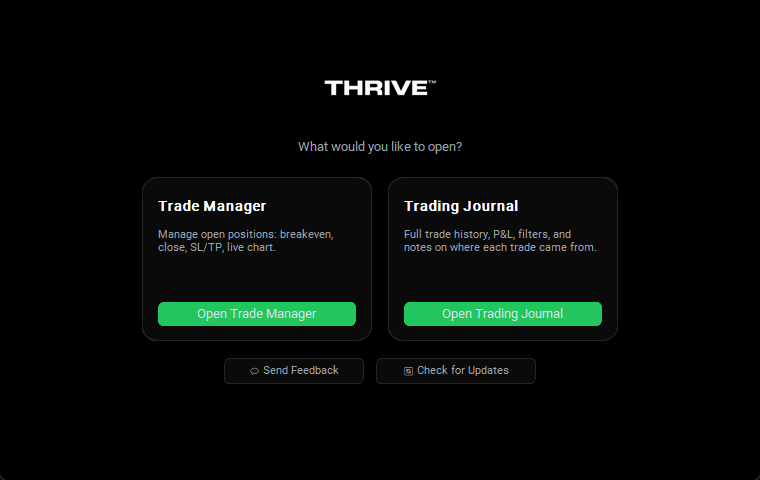
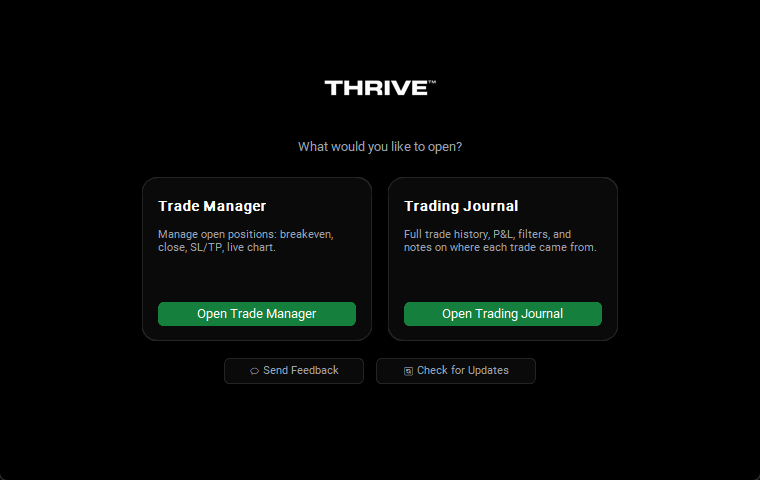
Fix illegible white text on green/red buttons (WCAG contrast too low)
White text on the original ACCENT green (#22c55e) and RED (#f87171)
button backgrounds measured at ~2.3:1 and ~2.8:1 contrast ratio,
well under WCAG AA's 4.5:1 minimum for normal text -- confirmed by a
direct user report that button text was unreadable throughout the
app. Darkened ACCENT/ACCENT_HOVER (used only as button backgrounds,
never as text) to shades that give white text ~5:1/~7:1 contrast, and
added a separate DANGER/DANGER_HOVER pair for the Full Close button
instead of reusing the lighter RED constant (which stays unchanged --
it's used as light text against dark backgrounds elsewhere, e.g. the
SELL badge, where the original contrast was already correct). Also
added explicit text_color=TEXT to every button that relied on
CustomTkinter's default rather than setting it, for consistency.
Recaptured all 3 README screenshots to reflect the new button colors.

Changed region(s): [[0.5145, 0.625, 0.8171, 0.6875], [0.2118, 0.625, 0.4842, 0.6875]]

diff --git a/gui.py b/gui.py
@@ -24,12 +24,22 @@ CARD_ALT = "#141414"
 BORDER = "#242424"
 TEXT = "#ffffff"
 MUTED = "#9ca3af"
-ACCENT = "#22c55e"
-ACCENT_HOVER = "#16a34a"
+# ACCENT/DANGER are deliberately darker, more saturated shades than
+# GREEN/RED below -- they're button BACKGROUNDS paired with light button
+# TEXT on top, and the original lighter #22c55e/#f87171 pairing gave white
+# text only a ~2.3:1 / ~2.8:1 contrast ratio against them (WCAG AA needs
+# 4.5:1 for normal text), which read as "text on green/red buttons isn't
+# visible at all" per a direct user report. GREEN/RED themselves stay
+# light -- they're used as TEXT color against dark backgrounds elsewhere
+# (the BUY/SELL badge, P&L figures), where that contrast is correct as-is.
+ACCENT = "#15803d"
+ACCENT_HOVER = "#166534"
 GREEN = "#4ade80"
 GREEN_BG = "#123322"
 RED = "#f87171"
 RED_BG = "#3a1414"
+DANGER = "#dc2626"
+DANGER_HOVER = "#b91c1c"
 AMBER = "#fbbf24"
 AMBER_BG = "#3a2e0f"
 
@@ -594,7 +604,7 @@ class TradeManagerApp:
         self.be_apply_row = ctk.CTkFrame(be_content, fg_color="transparent")
         self.be_apply_row.pack(fill="x", padx=10, pady=(6, 0))
         self.be_apply_btn = ctk.CTkButton(self.be_apply_row, text="Apply", height=24,
-                                           fg_color=ACCENT, hover_color=ACCENT_HOVER,
+                                           fg_color=ACCENT, hover_color=ACCENT_HOVER, text_color=TEXT,
                                            command=self._on_breakeven_apply)
         self.be_apply_btn.pack(fill="x")
 
@@ -618,7 +628,8 @@ class TradeManagerApp:
         self.sl_field_frame.pack(side="left")
         self.sl_entry.bind("<KeyRelease>", self._update_risk_reward)
         self.set_sl_btn = ctk.CTkButton(sl_line, text="Set", width=42, height=24,
-                                         fg_color=ACCENT, hover_color=ACCENT_HOVER, command=self._on_set_sl)
+                                         fg_color=ACCENT, hover_color=ACCENT_HOVER, text_color=TEXT,
+                                         command=self._on_set_sl)
         self.set_sl_btn.pack(side="left", padx=(6, 0))
         ctk.CTkLabel(sl_content, text="Current:", font=ctk.CTkFont(size=10), text_color=MUTED).pack(
             anchor="center", padx=10, pady=(6, 0))
@@ -639,7 +650,8 @@ class TradeManagerApp:
         self.tp_field_frame.pack(side="left")
         self.tp_entry.bind("<KeyRelease>", self._update_risk_reward)
         self.set_tp_btn = ctk.CTkButton(tp_line, text="Set", width=42, height=24,
-                                         fg_color=ACCENT, hover_color=ACCENT_HOVER, command=self._on_set_tp)
+                                         fg_color=ACCENT, hover_color=ACCENT_HOVER, text_color=TEXT,
+                                         command=self._on_set_tp)
         self.set_tp_btn.pack(side="left", padx=(6, 0))
         ctk.CTkLabel(tp_content, text="Current:", font=ctk.CTkFont(size=10), text_color=MUTED).pack(
             anchor="center", padx=10, pady=(6, 0))
@@ -662,7 +674,7 @@ class TradeManagerApp:
                                              command=self._on_half_close)
         self.half_close_btn.pack(fill="x", padx=10, pady=(0, 6))
         self.full_close_btn = ctk.CTkButton(close_content, text="Full Close", height=30,
-                                             fg_color=RED, hover_color="#dc2626",
+                                             fg_color=DANGER, hover_color=DANGER_HOVER, text_color=TEXT,
                                              command=self._on_full_close)
         self.full_close_btn.pack(fill="x", padx=10, pady=(0, 8))
         self.skip_confirm_var = tk.BooleanVar(value=False)

diff --git a/home_view.py b/home_view.py
@@ -155,7 +155,7 @@ class HomeScreen:
         self._update_banner = ctk.CTkButton(
             self.center, text=f"🔔 Version {tag} is available — click to download",
             font=ctk.CTkFont(size=12), height=26, fg_color=ACCENT, hover_color=ACCENT_HOVER,
-            command=lambda: webbrowser.open(url))
+            text_color=TEXT, command=lambda: webbrowser.open(url))
         self._update_banner.pack(pady=(0, 14), before=self.logo_label)
 
     def _make_choice_card(self, parent, title, subtitle, command):
@@ -170,7 +170,7 @@ class HomeScreen:
                                        wraplength=194, justify="left")
         subtitle_label.pack(anchor="w", padx=16)
         button = ctk.CTkButton(card, text=f"Open {title}", height=24, fg_color=ACCENT,
-                                hover_color=ACCENT_HOVER, command=command)
+                                hover_color=ACCENT_HOVER, text_color=TEXT, command=command)
         button.pack(side="bottom", padx=16, pady=16, fill="x")
         return card, {"title": title_label, "subtitle": subtitle_label, "button": button}
 

diff --git a/trade_journal.py b/trade_journal.py
@@ -115,7 +115,8 @@ class TradeJournalApp:
         # rightmost slice; each subsequent one takes the next slice to its
         # left).
         ctk.CTkButton(inner, text="Refresh", width=72, height=24, fg_color=ACCENT,
-                      hover_color=ACCENT_HOVER, command=self._load_and_refresh).pack(side="right")
+                      hover_color=ACCENT_HOVER, text_color=TEXT,
+                      command=self._load_and_refresh).pack(side="right")
         ctk.CTkButton(inner, text="Export CSV", width=90, height=24, fg_color=CARD_ALT,
                       hover_color=BORDER, text_color=TEXT,
                       command=self._export_csv).pack(side="right", padx=(0, 8))

diff --git a/update_check.py b/update_check.py
@@ -6,7 +6,7 @@ path here returns None rather than raising."""
 import json
 import urllib.request
 
-APP_VERSION = "1.0.4"
+APP_VERSION = "1.0.5"
 GITHUB_REPO = "Shani0017/Thrive-Trading-Manager"
 
 
